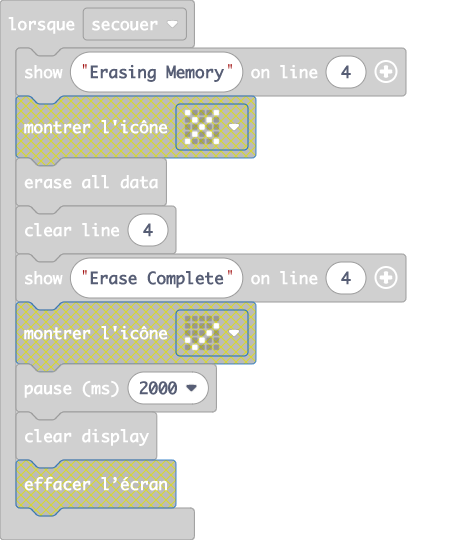
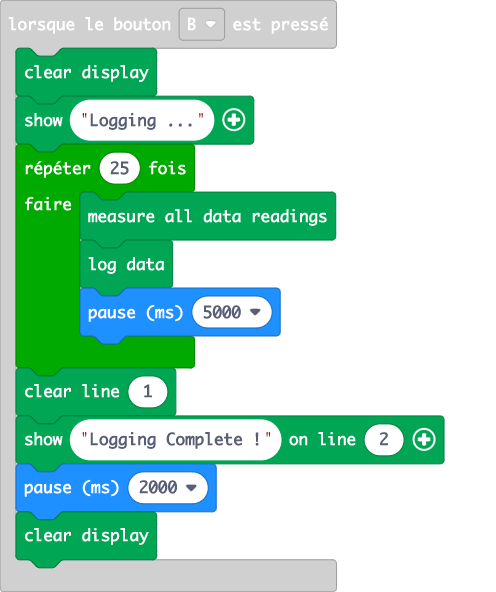
clear display when b is pressed

diff --git a/main.ts b/main.ts
@@ -13,6 +13,7 @@ input.onButtonPressed(Button.AB, function () {
     kitronik_air_quality.sendAllData()
 })
 input.onButtonPressed(Button.B, function () {
+    kitronik_air_quality.clear()
     kitronik_air_quality.show("Logging ...")
     for (let index = 0; index < 25; index++) {
         kitronik_air_quality.measureData()
